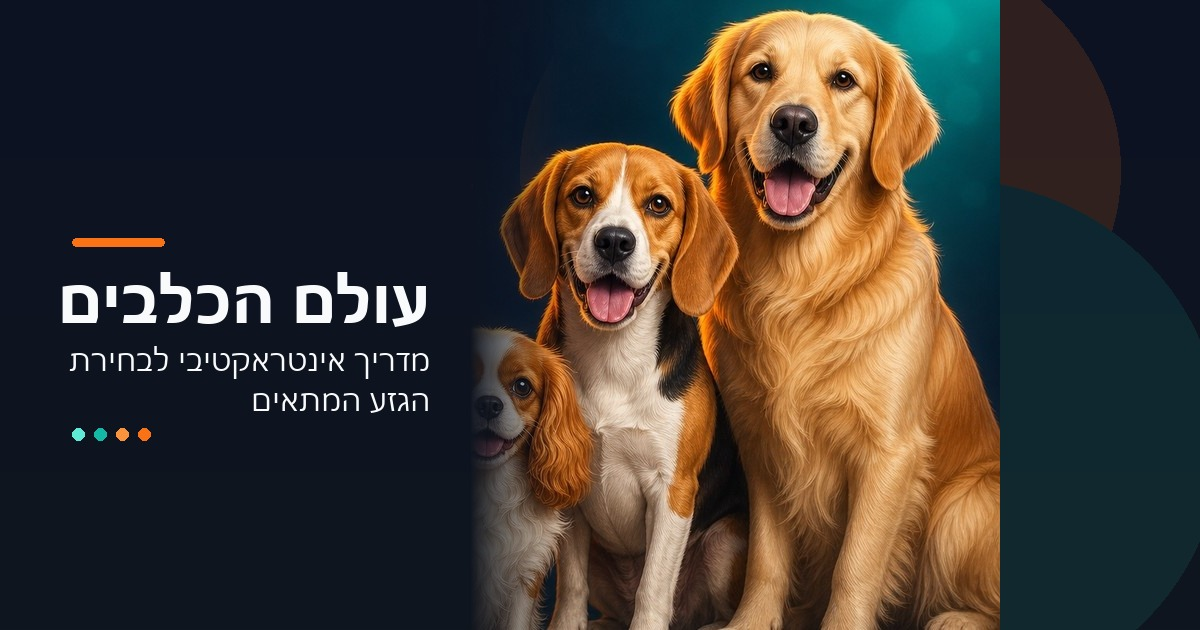
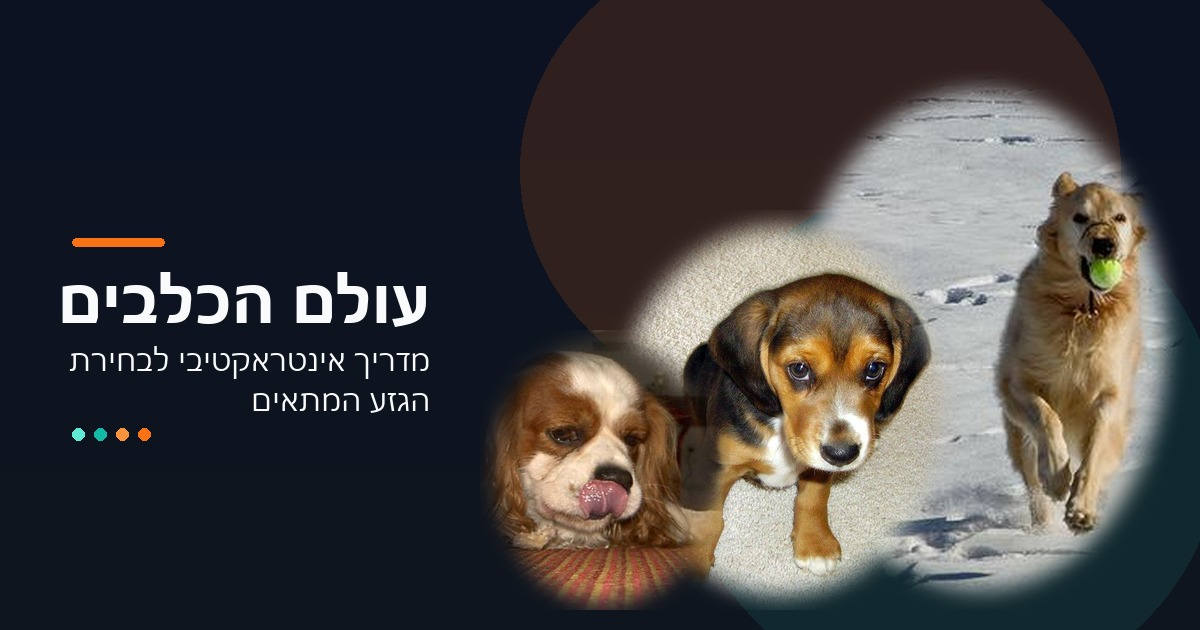
Rebuild OG share image from clean dog.ceo photos.
Composite golden, beagle, and blenheim spaniel on a fresh background with typography on the left only.

diff --git a/index.html b/index.html
@@ -51,8 +51,8 @@
   <!-- Share preview image: 1200×630 JPEG. Absolute URL so crawlers (which
        don't run JS) can fetch it directly, regardless of the host the
        link was shared from. -->
-  <meta property="og:image" content="https://shenhaveliya.github.io/dog-world/og-image.jpg?v=20260520-v14" />
-  <meta property="og:image:secure_url" content="https://shenhaveliya.github.io/dog-world/og-image.jpg?v=20260520-v14" />
+  <meta property="og:image" content="https://shenhaveliya.github.io/dog-world/og-image.jpg?v=20260520-v15" />
+  <meta property="og:image:secure_url" content="https://shenhaveliya.github.io/dog-world/og-image.jpg?v=20260520-v15" />
   <meta property="og:image:type" content="image/jpeg" />
   <meta property="og:image:width" content="1200" />
   <meta property="og:image:height" content="630" />
@@ -63,7 +63,7 @@
   <meta name="twitter:card" content="summary_large_image" />
   <meta id="twTitle" name="twitter:title" content="עולם הכלבים – מדריך לבחירת הגזע המתאים" />
   <meta id="twDescription" name="twitter:description" content="מדריך אינטראקטיבי לסוגי כלבים, אופי הגזעים, התאמה למשפחה, וטיפים לבחירת הכלב המתאים לך." />
-  <meta name="twitter:image" content="https://shenhaveliya.github.io/dog-world/og-image.jpg?v=20260520-v14" />
+  <meta name="twitter:image" content="https://shenhaveliya.github.io/dog-world/og-image.jpg?v=20260520-v15" />
   <meta id="twImageAlt" name="twitter:image:alt" content="עולם הכלבים – מדריך אינטראקטיבי לבחירת הגזע המתאים" />
 
   <!-- Privacy-friendly analytics. Works after the domain is added in Plausible. -->

diff --git a/scripts/generate-og-image.py b/scripts/generate-og-image.py
@@ -1,24 +1,34 @@
 #!/usr/bin/env python3
-"""Regenerate og-image.jpg (1200x630) for Open Graph / social sharing."""
+"""Regenerate og-image.jpg (1200x630) for Open Graph / social sharing.
+
+Builds a clean banner from dog.ceo photos (no baked-in text).
+Source photos are cached in scripts/og-dogs/.
+"""
 
 from __future__ import annotations
 
+import io
+import urllib.request
 from pathlib import Path
 
 from bidi.algorithm import get_display
-from PIL import Image, ImageDraw, ImageFont
+from PIL import Image, ImageDraw, ImageFilter, ImageFont
 
 ROOT = Path(__file__).resolve().parents[1]
-REF = Path(__file__).resolve().parent / "og-original-bbe40ef.jpg"
+ASSETS = Path(__file__).resolve().parent / "og-dogs"
 OUT = ROOT / "og-image.jpg"
 W, H = 1200, 630
 
 TEXT_RIGHT = 430
 TEXT_LEFT = 72
-LEFT_PANEL_X = 470
 
-# Original baked text ends ~x667; this strip has clean dog pixels only.
-DOG_STRIP_X = 670
+# Pinned dog.ceo photos (front-facing, landscape-friendly).
+DOG_SOURCES = {
+    "golden": "https://images.dog.ceo/breeds/retriever-golden/n02099601_831.jpg",
+    "beagle": "https://images.dog.ceo/breeds/beagle/n02088364_4473.jpg",
+    "spaniel": "https://images.dog.ceo/breeds/spaniel-blenheim/n02086646_4045.jpg",
+}
+DOG_FILES = {key: ASSETS / f"{key}.jpg" for key in DOG_SOURCES}
 
 
 def load_font(size: int, bold: bool = False) -> ImageFont.FreeTypeFont:
@@ -30,42 +40,67 @@ def load_font(size: int, bold: bool = False) -> ImageFont.FreeTypeFont:
     return ImageFont.load_default()
 
 
-def bg_color(y: int) -> tuple[int, int, int]:
-    t = y / (H - 1)
-    r = int(12 + (16 - 12) * t)
-    g = int(18 + (22 - 18) * t)
-    b = int(34 + (30 - 34) * t)
-    return r, g, b
+def fetch_url(url: str) -> bytes:
+    req = urllib.request.Request(url, headers={"User-Agent": "dog-world-og-generator/1.0"})
+    with urllib.request.urlopen(req, timeout=30) as resp:
+        return resp.read()
+
+
+def load_dog(key: str) -> Image.Image:
+    path = DOG_FILES[key]
+    if not path.exists():
+        ASSETS.mkdir(exist_ok=True)
+        path.write_bytes(fetch_url(DOG_SOURCES[key]))
+    return Image.open(path).convert("RGBA")
+
+
+def fit_cover(img: Image.Image, tw: int, th: int, *, focus_x: float = 0.5, focus_y: float = 0.18) -> Image.Image:
+    sw, sh = img.size
+    scale = max(tw / sw, th / sh)
+    nw, nh = int(sw * scale), int(sh * scale)
+    resized = img.resize((nw, nh), Image.Resampling.LANCZOS)
+    left = max(0, min(nw - tw, int((nw - tw) * focus_x)))
+    top = max(0, min(nh - th, int((nh - th) * focus_y)))
+    return resized.crop((left, top, left + tw, top + th))
+
+
+def oval_mask(width: int, height: int) -> Image.Image:
+    mask = Image.new("L", (width, height), 0)
+    draw = ImageDraw.Draw(mask)
+    pad_x, pad_y = int(width * 0.06), int(height * 0.04)
+    draw.ellipse((pad_x, pad_y, width - pad_x, height - pad_y), fill=255)
+    return mask.filter(ImageFilter.GaussianBlur(radius=10))
 
 
 def draw_background() -> Image.Image:
     base = Image.new("RGB", (W, H))
     draw = ImageDraw.Draw(base)
     for y in range(H):
-        draw.line([(0, y), (W, y)], fill=bg_color(y))
+        t = y / (H - 1)
+        r = int(12 + (16 - 12) * t)
+        g = int(18 + (22 - 18) * t)
+        b = int(34 + (30 - 34) * t)
+        draw.line([(0, y), (W, y)], fill=(r, g, b))
 
     glow = Image.new("RGBA", (W, H), (0, 0, 0, 0))
     gdraw = ImageDraw.Draw(glow)
     gdraw.ellipse((520, -80, 1120, 420), fill=(249, 115, 22, 38))
     gdraw.ellipse((680, 180, 1220, 700), fill=(20, 184, 166, 30))
-    return Image.alpha_composite(base.convert("RGBA"), glow).convert("RGB")
+    return Image.alpha_composite(base.convert("RGBA"), glow)
 
 
-def left_feather_mask(width: int, height: int, feather: int) -> Image.Image:
-    mask = Image.new("L", (width, height), 255)
-    px = mask.load()
-    for x in range(min(feather, width)):
-        alpha = int(255 * (x / feather) ** 0.85)
-        for y in range(height):
-            px[x, y] = alpha
-    return mask
-
-
-def paste_original_dogs(canvas: Image.Image, ref: Image.Image) -> None:
-    """Paste the untouched dog photo (no baked text) at full resolution."""
-    strip = ref.crop((DOG_STRIP_X, 0, W, H))
-    mask = left_feather_mask(strip.width, strip.height, feather=90)
-    canvas.paste(strip, (LEFT_PANEL_X, 0), mask)
+def paste_dog(
+    canvas: Image.Image,
+    key: str,
+    box: tuple[int, int, int, int],
+    *,
+    focus_x: float = 0.5,
+    focus_y: float = 0.18,
+) -> None:
+    x0, y0, x1, y1 = box
+    tw, th = x1 - x0, y1 - y0
+    dog = fit_cover(load_dog(key), tw, th, focus_x=focus_x, focus_y=focus_y)
+    canvas.paste(dog, (x0, y0), oval_mask(tw, th))
 
 
 def draw_text(canvas: Image.Image) -> None:
@@ -89,24 +124,16 @@ def draw_text(canvas: Image.Image) -> None:
         dot_x += 22
 
 
-def build_canvas(ref: Image.Image) -> Image.Image:
-    canvas = draw_background()
-    px = canvas.load()
-    for y in range(H):
-        color = bg_color(y)
-        for x in range(LEFT_PANEL_X):
-            px[x, y] = color
-    paste_original_dogs(canvas, ref)
-    return canvas
-
-
 def main() -> None:
-    if not REF.exists():
-        raise SystemExit(f"Missing reference image: {REF}")
+    canvas = draw_background()
 
-    canvas = build_canvas(Image.open(REF))
+    # Back → front
+    paste_dog(canvas, "golden", (770, 70, 1190, 610), focus_x=0.52, focus_y=0.12)
+    paste_dog(canvas, "beagle", (600, 210, 960, 610), focus_x=0.5, focus_y=0.08)
+    paste_dog(canvas, "spaniel", (480, 330, 730, 610), focus_x=0.48, focus_y=0.1)
+
     draw_text(canvas)
-    canvas.save(OUT, format="JPEG", quality=92, optimize=True, progressive=False)
+    canvas.convert("RGB").save(OUT, format="JPEG", quality=92, optimize=True, progressive=False)
     print(f"Wrote {OUT} ({OUT.stat().st_size // 1024} KB)")
 
 
